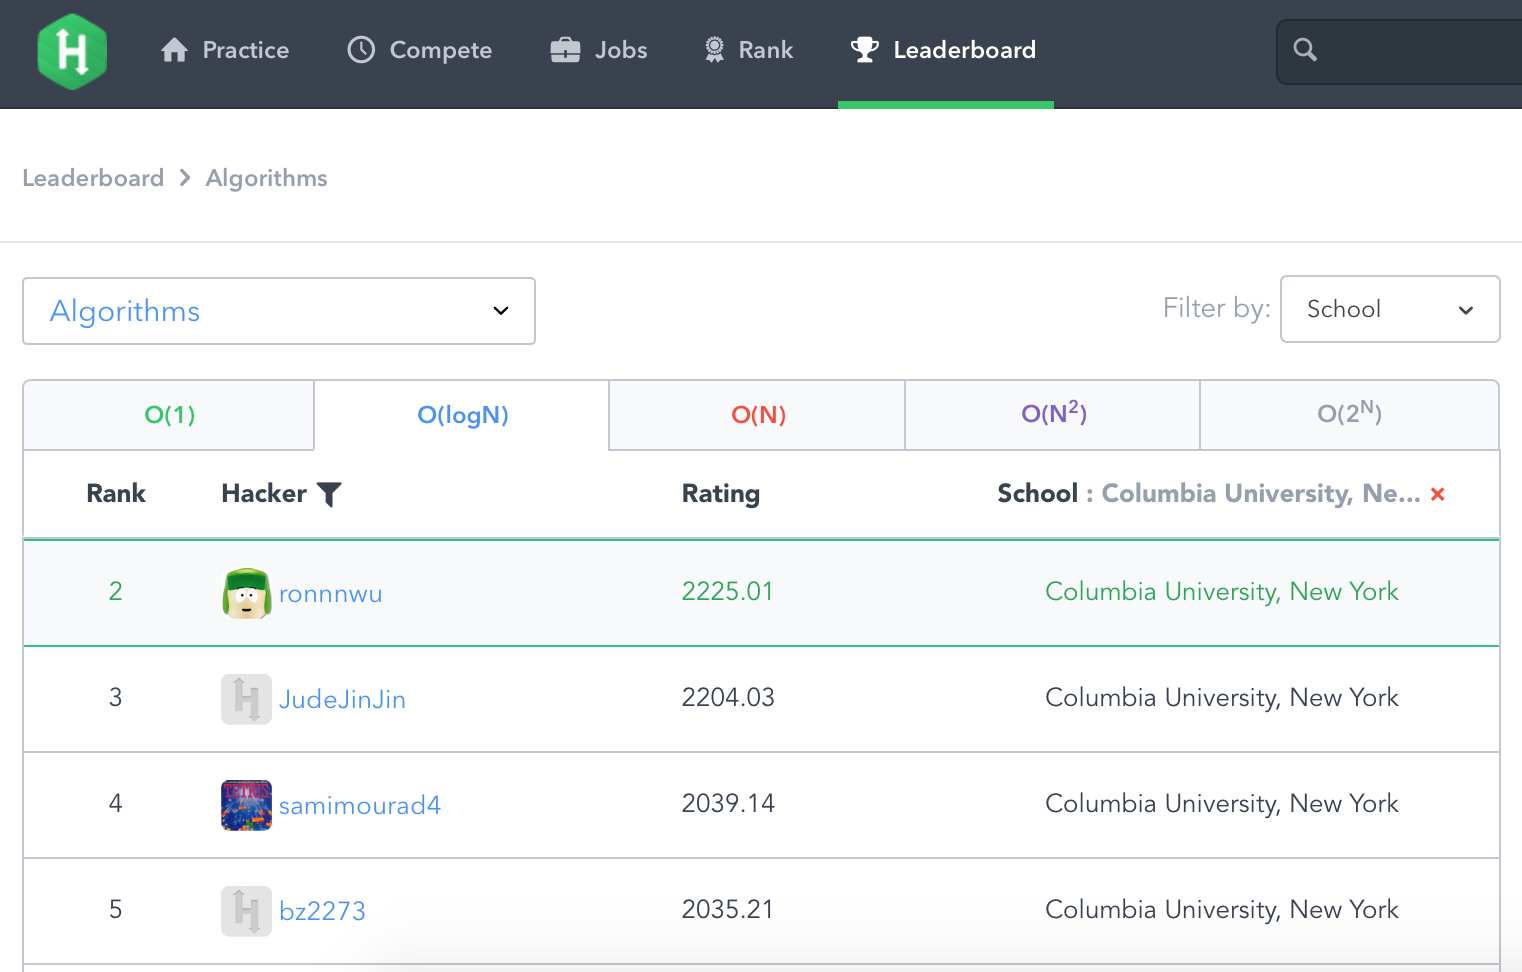
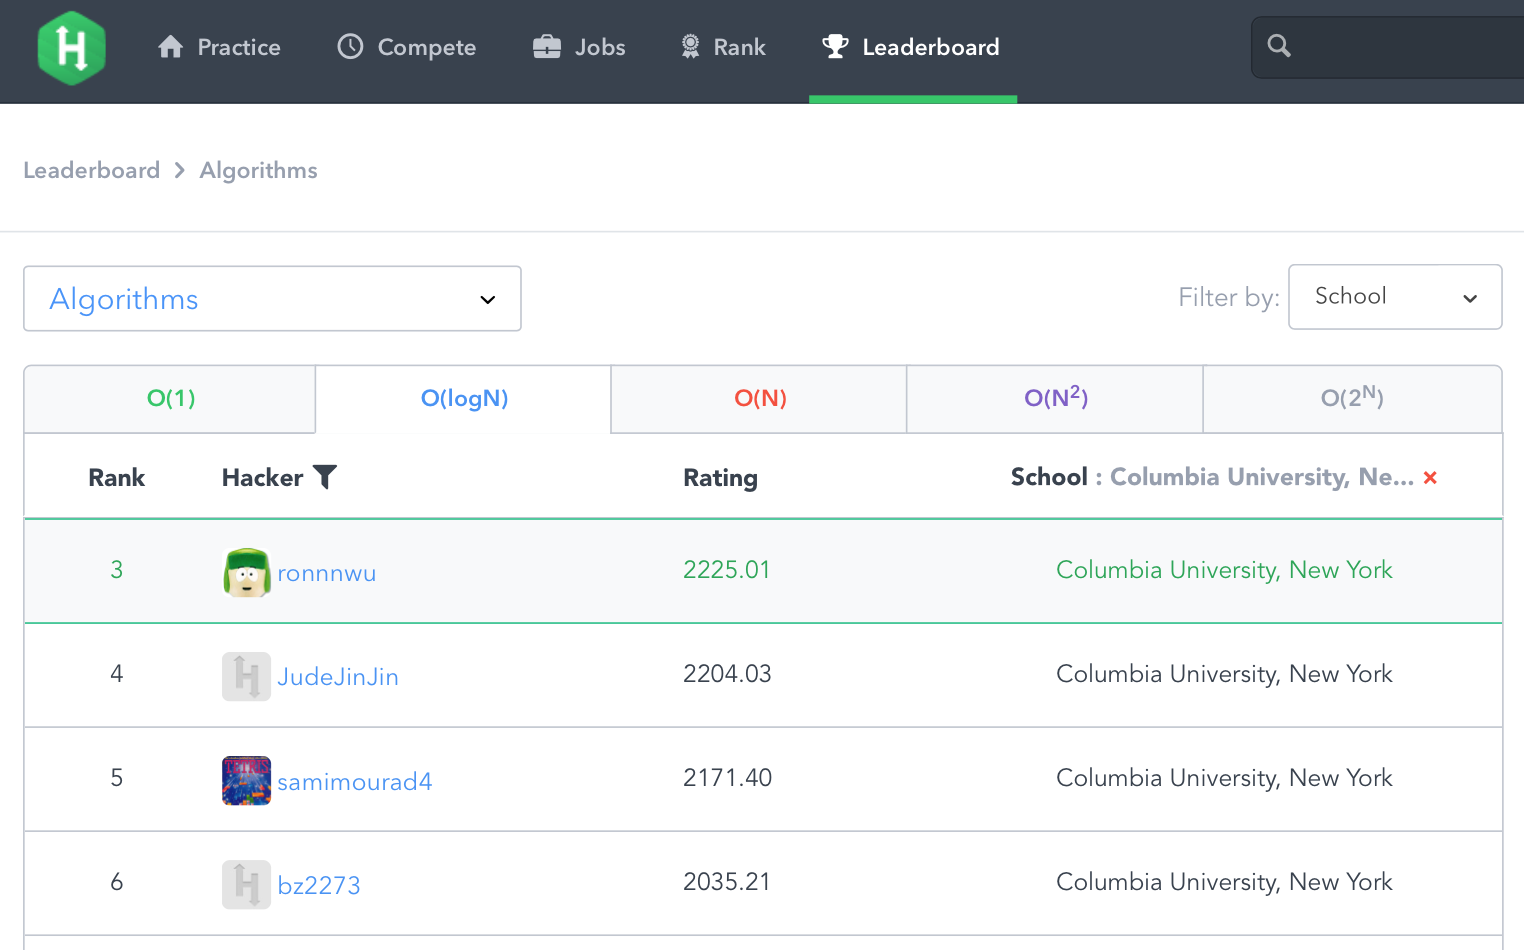
finish sigma

diff --git a/index.html b/index.html
@@ -244,7 +244,18 @@ config(p, displayModeBar=FALSE)</code></pre>
 			<em>1. Kaggle Machine Learning Contest</em>
 
 			<p>
-				Currently, I am working on the Kaggle 2-sigma contest.
+				I finished the Kaggle 2-sigma global contest in the 29th place (silver medal).
+			</p>
+			<p style="text-align:center">
+			<a href="https://www.kaggle.com/c/two-sigma-financial-modeling/leaderboard"  target="_blank"><img   src="img/sigma_lb.png"  alt="project image"></a>
+			</p> 
+				I created this Shiny app (written in R) for data exploratory analysis. The app can be opened by clicking the pic below. 
+			</p>
+			<p style="text-align:center">
+			<a href="https://ronnnwu.shinyapps.io/shiny_2sigma_contest/"  target="_blank"><img   src="img/sigma.png"  alt="project image"></a>
+			</p> 
+			<p>
+				The source code provided <a href="https://github.com/ronnnwu/shinyStockApp/blob/master/app.R" target="_blank" >here</a> and download the dataset from kaggle. Later I have added more functionalities, such as corr(), lagging(), unit root, spectrogram, kalman, roll mean, exp smoothing, etc.
 			</p>
 
 			<em>2. Hackerrank Programming Contest</em>
@@ -253,7 +264,7 @@ config(p, displayModeBar=FALSE)</code></pre>
 				Recently I entered contests on Hackerrank. Through the contests, I have learned to not only code fast, but more importantly to think hard and use math tricks to reduce the algorithm complexity. Along the way, I have learned some auxiliary data structures. 
 			</p>
 			<p> 
-				As of January 2017, I rank number 2 on Hackerrank among Columbia programmers, also rank number 2 among NYU programmers. The ranking can be found <a href="https://www.hackerrank.com/leaderboard/algorithms/contest/level/2/filter/school=Columbia%20University,%20New%20York/page/1" target="_blank" >here</a>.  
+				As of March 2017, I rank #3 on Hackerrank among Columbia programmers. 
 
 			<p style="text-align:center">
 			<a href="https://www.hackerrank.com/leaderboard/algorithms/contest/level/2/filter/school=Columbia%20University,%20New%20York/page/1"  target="_blank"><img   src="img/hackerrank.png"  alt="project image"></a>
@@ -301,7 +312,7 @@ config(p, displayModeBar=FALSE)</code></pre>
 				The idea was that a safer way to share messages was to use no encryption and no personal information attached to it. The app allows user to go to our website and claim alias, then post the message there and give his alias to the people he wants to share the message with. His friends will go to our site to read the message without a password, and the alias will expire and become available  for other users to claim in 2 days if the original creator of the alias doesn't login for the period of time.
 			</p>
 			<p>
-				The source code can be found <a href="https://github.com/mgandham/modsecure" target="_blank" >here</a>.
+				The source code can be found <a href="https://github.com/mgandham/modsecure" target="_blank" >here</a>, and the site can be opened <a href="http://www.modsecure.com" target="_blank" >here</a>.
 			</p>
 
 
